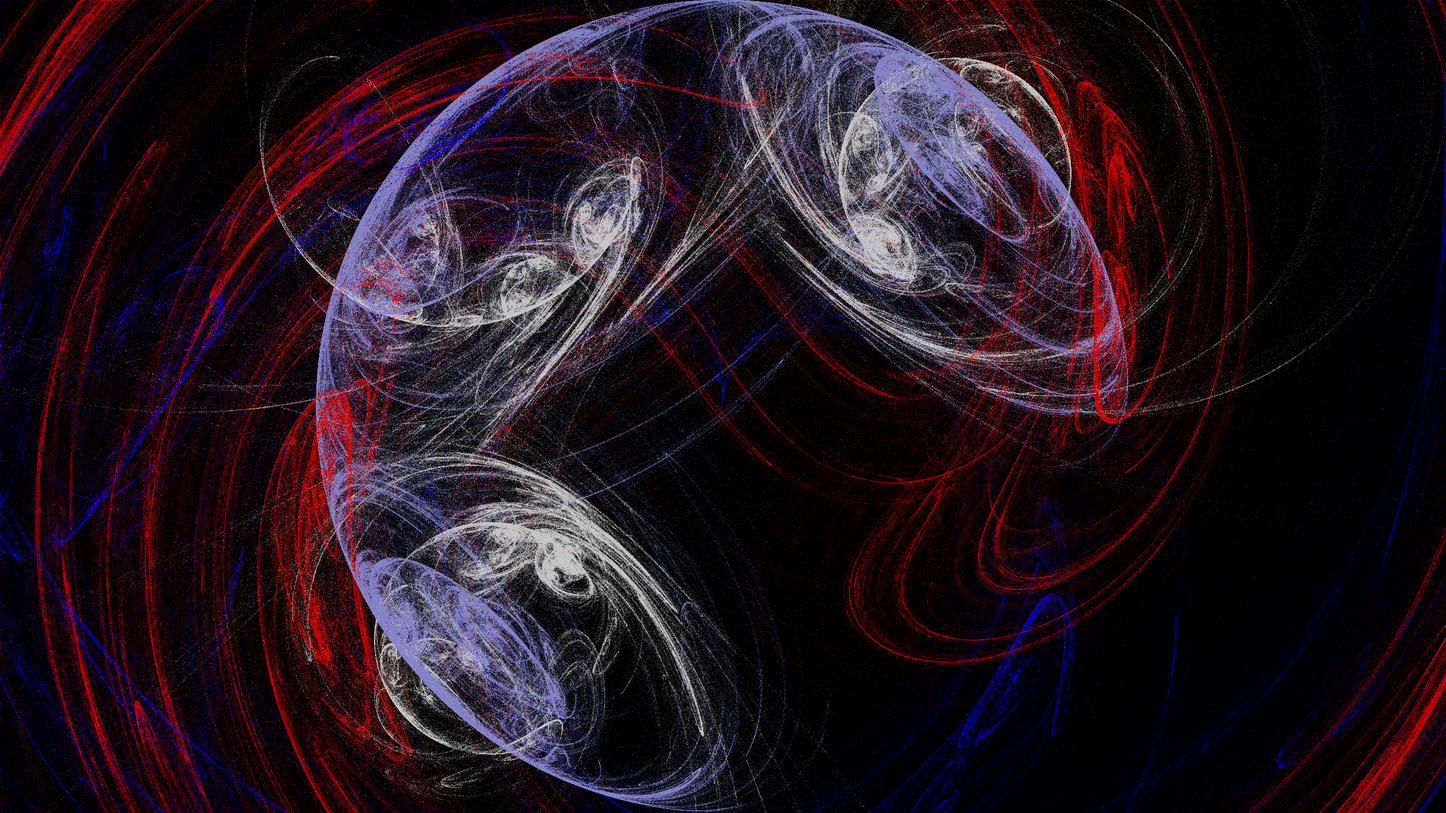
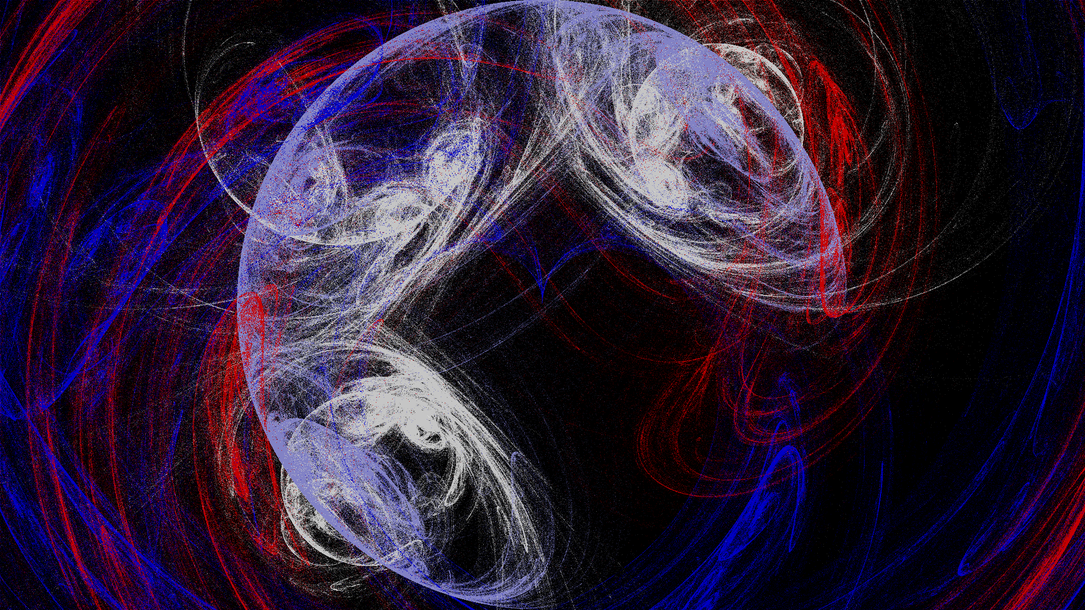
feat: inject yaml config to modules

diff --git a/src/main/java/backend/academy/fractal/FractalApp.java b/src/main/java/backend/academy/fractal/FractalApp.java
@@ -9,25 +9,16 @@ import backend.academy.fractal.variations.Variations;
 import java.awt.Color;
 
 public class FractalApp {
-    int width = 2560;
-    int height = 1440;
-    int iterations = 10_000_000;
-    Transformations transformations = new Transformations();
-    Variations variations = new Variations();
     Config config;
+    Fractal fractal;
+    FractalImage image;
+    Transformations transformations;
+    Variations variations;
 
     public FractalApp(){
-        try{
-            config = ConfigLoader.loadConfig("config.yaml");
-        } catch (Exception e) {
-            e.printStackTrace();
-        }
-
-
-        Fractal fractal = new Fractal(width, height);
-        FractalImage image = new FractalImage(width, height, transformations.getMaxCount(), variations.getMaxCount());
+        setupApp();
         Point point = fractal.getRandomPoint();
-        for(int iter = 0; iter<iterations;iter++){
+        for(int iter = 0; iter<config.getFractal().getIterations();iter++){
             int transformationInd = transformations.applyTransformation(point);
             int variationInd = variations.applyVariation(point);
 
@@ -35,5 +26,19 @@ public class FractalApp {
             image.addPoint(imagePoint, transformationInd, variationInd);
         }
         image.saveImage("fractal.png");
+    }
+
+    private void setupApp(){
+        try{
+            config = ConfigLoader.loadConfig("config.yaml");
+        } catch (Exception e) {
+            e.printStackTrace();
+        }
+        fractal = new Fractal(config.getFractal());
+        image = new FractalImage(config);
+        transformations = new Transformations(config.getTransformations());
+        variations = new Variations(config.getVariations());
+
+
     }
 }

diff --git a/src/main/java/backend/academy/fractal/FractalImage.java b/src/main/java/backend/academy/fractal/FractalImage.java
@@ -1,5 +1,6 @@
 package backend.academy.fractal;
 
+import backend.academy.fractal.config.Config;
 import backend.academy.fractal.processors.LogarithmicGammaProcessor;
 import backend.academy.fractal.structs.ImagePoint;
 import backend.academy.fractal.structs.Pixel;
@@ -12,6 +13,7 @@ import java.util.ArrayList;
 import java.util.List;
 
 public class FractalImage {
+    List<Color> multiColors = List.of(Color.WHITE, Color.BLUE, Color.RED);
     List<Color> gradient;
     Color baseColor = new Color(0,0,0);
     Pixel[][] image;
@@ -19,12 +21,10 @@ public class FractalImage {
     int width;
     int height;
 
-    public FractalImage(int width, int height, int maxTransformations, int maxVariations){
-        List<Color> multiColors = List.of(Color.WHITE, Color.BLUE, Color.RED);
-        gradient = Gradient.generateMultiGradient(multiColors, maxVariations+1);
-
-        this.width = width;
-        this.height = height;
+    public FractalImage(Config config){
+        gradient = Gradient.generateMultiGradient(multiColors, config.getVariations().size()+1);
+        this.width = config.getFractal().getWidth();
+        this.height = config.getFractal().getHeight();
         image = new Pixel[height][width];
         for(int y = 0; y<height;y++){
             for(int x = 0; x<width;x++){

diff --git a/src/main/java/backend/academy/fractal/Fractal.java b/src/main/java/backend/academy/fractal/Fractal.java
@@ -1,5 +1,6 @@
 package backend.academy.fractal;
 
+import backend.academy.fractal.config.FractalConfig;
 import backend.academy.fractal.structs.ImagePoint;
 import backend.academy.fractal.structs.Pixel;
 import backend.academy.fractal.structs.Point;
@@ -7,14 +8,12 @@ import java.util.Random;
 
 public class Fractal {
     double ratio;
-    int imageWidth;
-    int imageHeight;
+    FractalConfig config;
     Random rnd = new Random();
 
-    public Fractal(int width, int height){
-        imageWidth = width;
-        imageHeight = height;
-        ratio = (double) width / height;
+    public Fractal(FractalConfig config){
+        this.config = config;
+        ratio = (double) config.getWidth() / config.getHeight();
     }
 
     public Point getRandomPoint(){
@@ -26,8 +25,8 @@ public class Fractal {
     }
 
     public ImagePoint convertToImageCoords(Point point){
-        int x = (int) ((point.x() + ratio) * (imageWidth - 1) / (ratio*2));
-        int y = (int) ((point.y() + 1) * (imageHeight - 1) / 2);
+        int x = (int) ((point.x() + ratio) * (config.getWidth() - 1) / (ratio*2));
+        int y = (int) ((point.y() + 1) * (config.getHeight() - 1) / 2);
         return new ImagePoint(x, y);
     }
 }

diff --git a/src/main/java/backend/academy/fractal/variations/Variations.java b/src/main/java/backend/academy/fractal/variations/Variations.java
@@ -1,5 +1,6 @@
 package backend.academy.fractal.variations;
 
+import backend.academy.fractal.config.VariationConfig;
 import backend.academy.fractal.structs.Point;
 import backend.academy.fractal.variations.implementations.BubbleVariation;
 import backend.academy.fractal.variations.implementations.HeartVariation;
@@ -9,10 +10,16 @@ import java.util.List;
 import java.util.Random;
 
 public class Variations {
+    List<VariationConfig> config;
     Random rnd = new Random();
     List<Variation> variations =
         List.of(new SphericalVariation(), new BubbleVariation(), new HeartVariation(), new SwirlVariation());
-    double[] chances = new double[] {0.35, 0.5, 0.2, 0.7};
+    double[] chances = new double[] {1, 1, 1, 1};
+
+    public Variations(List<VariationConfig> config){
+        this.config = config;
+
+    }
 
     public int getVariation() {
         double sum = 0;

diff --git a/src/main/java/backend/academy/fractal/transformations/Transformations.java b/src/main/java/backend/academy/fractal/transformations/Transformations.java
@@ -1,15 +1,22 @@
 package backend.academy.fractal.transformations;
 
+import backend.academy.fractal.config.TransformationConfig;
 import backend.academy.fractal.structs.Point;
+import java.util.List;
 import java.util.Random;
 
 public class Transformations {
+    private List<TransformationConfig> config;
     Random rnd = new Random();
     public final double[][] transformations = {
         {0.5, 0.0, 0.0, 0.5, -1.0, 1.0},
         {0.5, 0.0, 0.0, 0.5, 1.0, -1.0},
         {0.5, 0.5, -0.5, 0.5, -1.0, -1.0}
     };
+
+    public Transformations(List<TransformationConfig> config){
+        this.config = config;
+    }
 
     public int getTransformationIndex(){
         return rnd.nextInt(transformations.length);

diff --git a/src/main/java/backend/academy/fractal/config/Config.java b/src/main/java/backend/academy/fractal/config/Config.java
@@ -15,30 +15,4 @@ public class Config {
 
     public Config() {
     }
-
-    @Getter
-    @Setter
-    @Accessors(fluent = false, chain = false)
-    public static class FractalConfig {
-        private int width;
-        private int height;
-        private boolean horizontal;
-        private boolean vertical;
-    }
-
-    @Getter
-    @Setter
-    @Accessors(fluent = false, chain = false)
-    public static class TransformationConfig {
-        private double[] transformation;
-        private double chance;
-    }
-
-    @Getter
-    @Setter
-    @Accessors(fluent = false, chain = false)
-    public static class VariationConfig {
-        private String name;
-        private double chance;
-    }
 }

diff --git a/src/main/java/backend/academy/fractal/config/FractalConfig.java b/src/main/java/backend/academy/fractal/config/FractalConfig.java
@@ -1,0 +1,16 @@
+package backend.academy.fractal.config;
+
+import lombok.Getter;
+import lombok.Setter;
+import lombok.experimental.Accessors;
+
+@Getter
+@Setter
+@Accessors(fluent = false, chain = false)
+public class FractalConfig {
+    private int width;
+    private int height;
+    private boolean horizontal;
+    private boolean vertical;
+    private int iterations;
+}

diff --git a/src/main/java/backend/academy/fractal/config/TransformationConfig.java b/src/main/java/backend/academy/fractal/config/TransformationConfig.java
@@ -1,0 +1,13 @@
+package backend.academy.fractal.config;
+
+import lombok.Getter;
+import lombok.Setter;
+import lombok.experimental.Accessors;
+
+@Getter
+@Setter
+@Accessors(fluent = false, chain = false)
+public class TransformationConfig {
+    private double[] transformation;
+    private double chance;
+}

diff --git a/src/main/java/backend/academy/fractal/config/VariationConfig.java b/src/main/java/backend/academy/fractal/config/VariationConfig.java
@@ -1,0 +1,13 @@
+package backend.academy.fractal.config;
+
+import lombok.Getter;
+import lombok.Setter;
+import lombok.experimental.Accessors;
+
+@Getter
+@Setter
+@Accessors(fluent = false, chain = false)
+public class VariationConfig {
+    private String name;
+    private double chance;
+}
